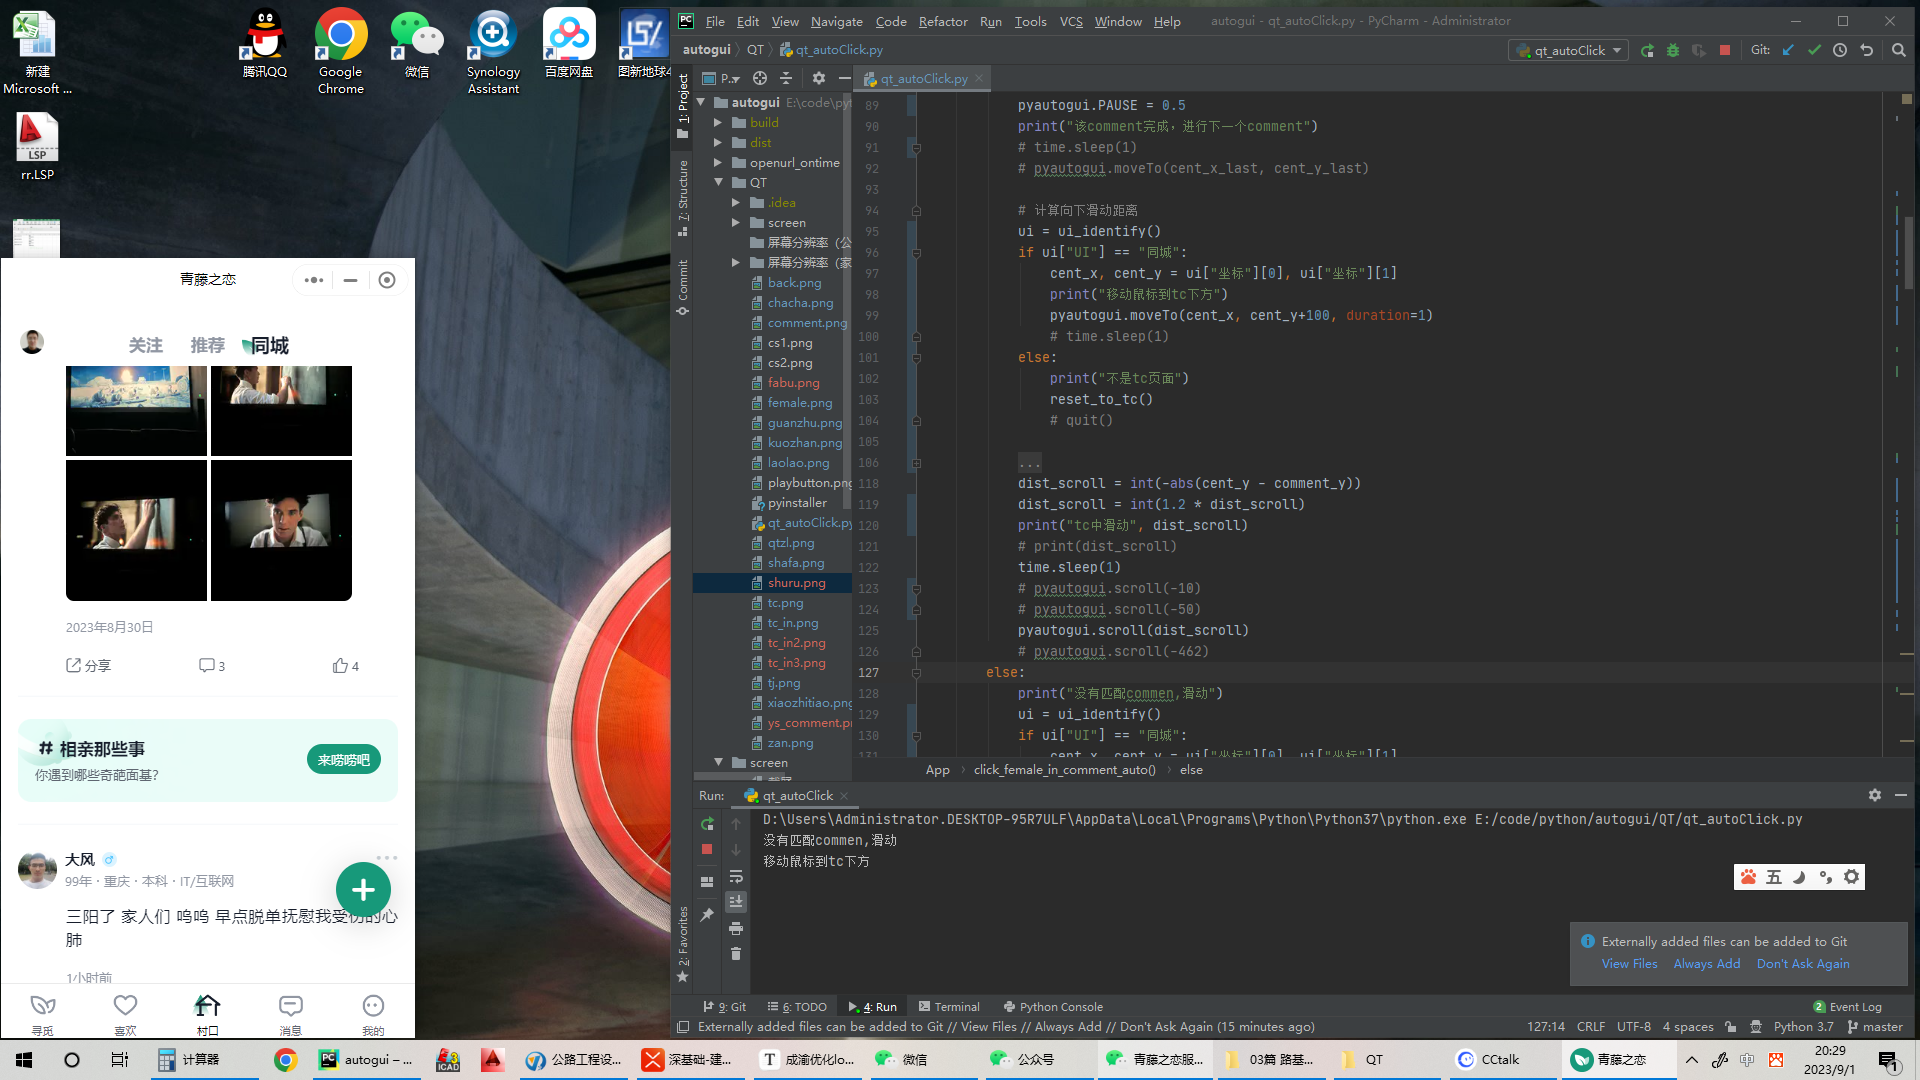
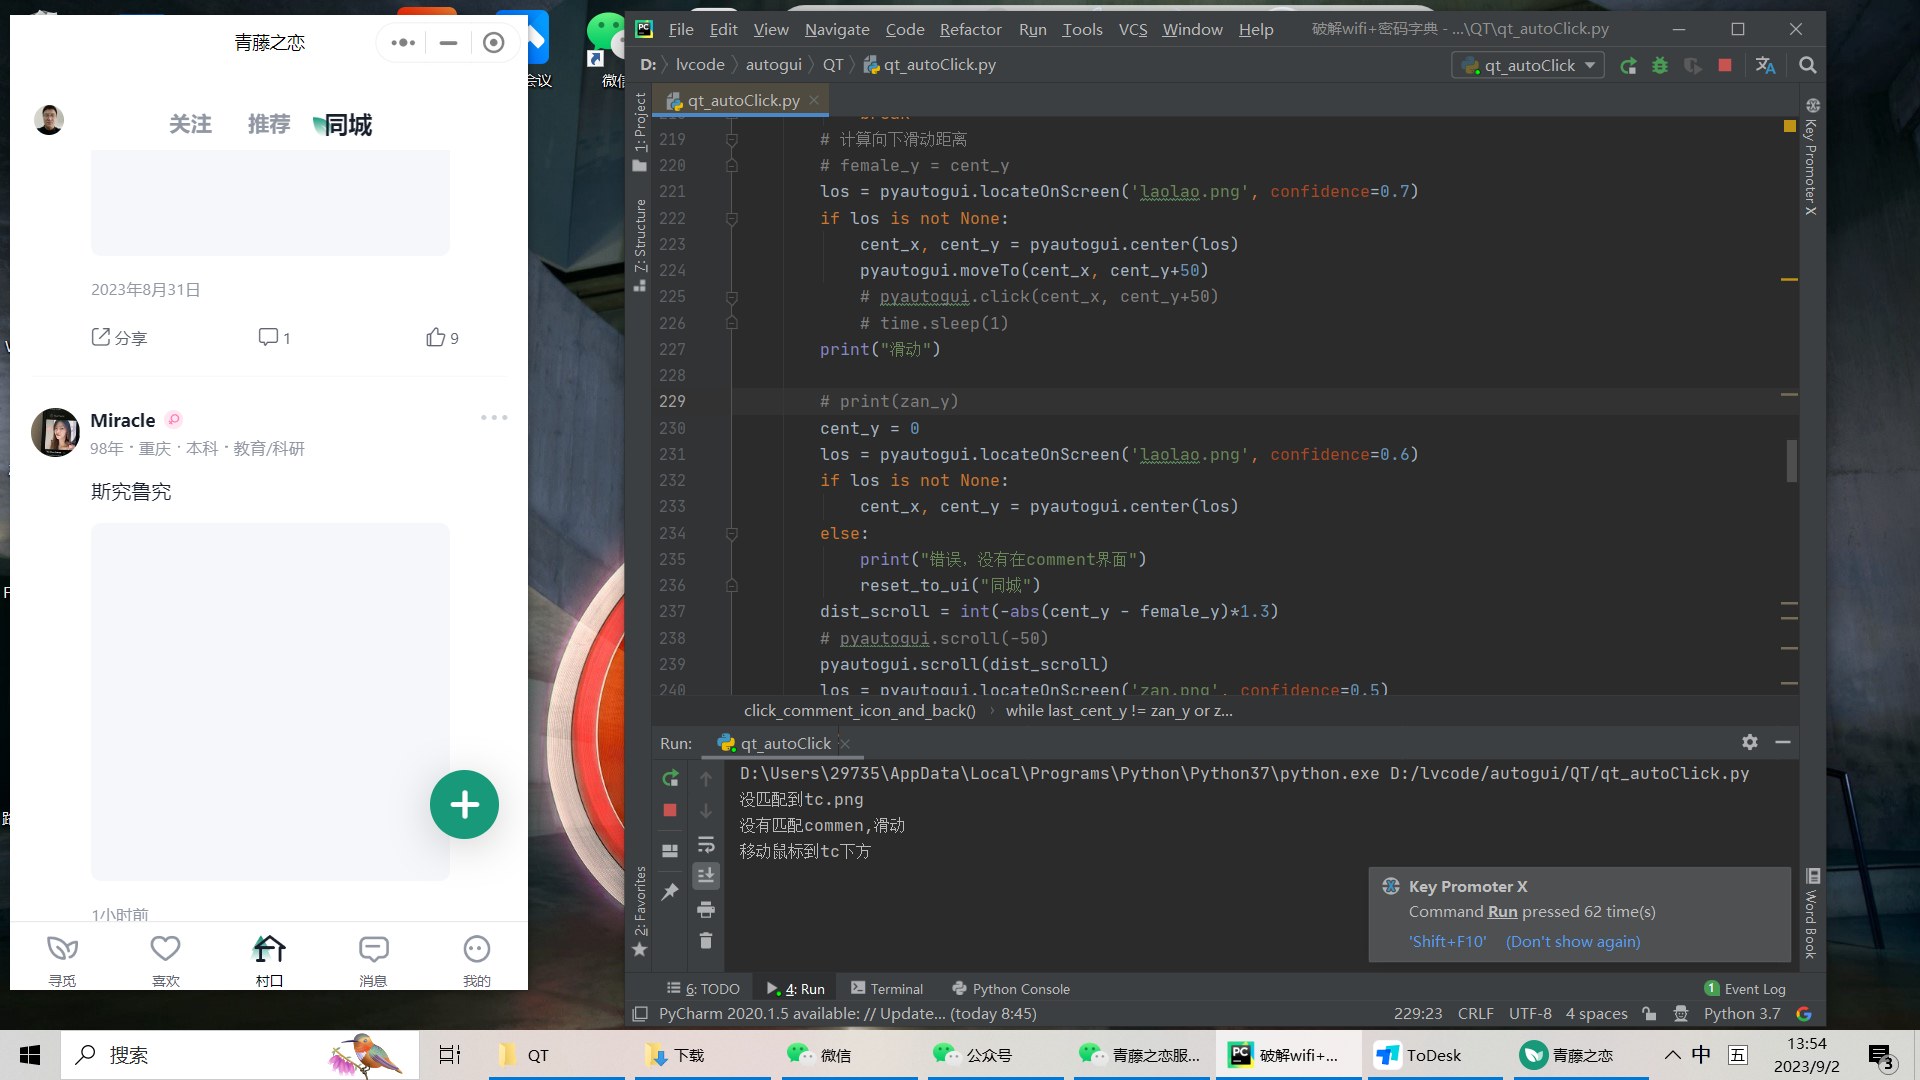
fix bug qt_qutoclick v2.0

diff --git a/QT/qt_autoClick.py b/QT/qt_autoClick.py
@@ -100,7 +100,14 @@ class App(tk.Tk):
                 # time.sleep(1)
             else:
                 print("不是tc页面")
-                reset_to_tc()
+                ui_dic = reset_to_ui("同城")
+                if ui_dic["UI"] == "同城":
+                    cent_x, cent_y = ui_dic["坐标"][0], ui_dic["坐标"][1]
+                    print("移动鼠标到tc下方")
+                    pyautogui.moveTo(cent_x, cent_y + 100, duration=0.2)
+                else:
+                    quit()
+                # reset_to_tc()
                 # quit()
 
             # cent_y = 0
@@ -182,6 +189,7 @@ def click_comment_icon_and_back(icon_x, icon_y):
     while last_cent_y != zan_y or zan_y == 0:
         last_cent_y = zan_y
         cent_y = 0
+        female_y = 700
         female = pyautogui.locateOnScreen('female.png', confidence=0.7)
         if female is not None:
             cent_x, cent_y = pyautogui.center(female)
@@ -202,12 +210,14 @@ def click_comment_icon_and_back(icon_x, icon_y):
                 if n_count > 10:
                     reset_to_tc()
                     return "timeout"
-        los = pyautogui.locateOnScreen("shafa.png", confidence=0.6)
+            female_y = cent_y
+        # los = pyautogui.locateOnScreen("shafa.png", confidence=0.6)
+        los = pyautogui.locateOnScreen("shuru.png", confidence=0.6)
         if los is not None:
             print("无人评论")
             break
         # 计算向下滑动距离
-        female_y = cent_y
+        # female_y = cent_y
         los = pyautogui.locateOnScreen('laolao.png', confidence=0.7)
         if los is not None:
             cent_x, cent_y = pyautogui.center(los)
@@ -215,11 +225,15 @@ def click_comment_icon_and_back(icon_x, icon_y):
             # pyautogui.click(cent_x, cent_y+50)
             # time.sleep(1)
         print("滑动")
+
         # print(zan_y)
         cent_y = 0
         los = pyautogui.locateOnScreen('laolao.png', confidence=0.6)
         if los is not None:
             cent_x, cent_y = pyautogui.center(los)
+        else:
+            print("错误，没有在comment界面")
+            reset_to_ui("同城")
         dist_scroll = int(-abs(cent_y - female_y)*1.3)
         # pyautogui.scroll(-50)
         pyautogui.scroll(dist_scroll)
@@ -387,6 +401,38 @@ def reset_to_tc():
         if los_in is not None:
             return
         time.sleep(1)
+
+
+def reset_to_ui(ui="同城"):
+    # 重置到同城
+    ui_list = ["关注", "推荐", "同城"]
+    ui_pic_dic = {"同城": "tc.png", "推荐": "tj.png", "关注": "guanzhu_ui.png"}
+    if ui in ui_list:
+        pass
+    else:
+        res = {"UI": "输入ui不在列表中", "坐标": [0, 0]}
+    print(f"重置到{ui}界面")
+    n = 0
+    while True:
+        pyautogui.moveTo(1, 1)
+        time.sleep(1)
+        los = pyautogui.locateOnScreen('back.png', confidence=0.7)
+        if los is not None:
+            cent_x, cent_y = pyautogui.center(los)
+            pyautogui.click(cent_x, cent_y)
+        los_tc = pyautogui.locateOnScreen(ui_pic_dic[ui], confidence=0.7)
+        if los_tc is not None:
+            cent_x, cent_y = pyautogui.center(los_tc)
+            pyautogui.click(cent_x, cent_y)
+            res = {"UI": ui, "坐标": [tc_x, tc_y]}
+            return res
+        res = ui_identify()
+        if res['UI'] == ui:
+            return res
+        n += 1
+        if n > 20:
+            print(f"无法重置到{ui}界面")
+            return res
 
 
 def main():
